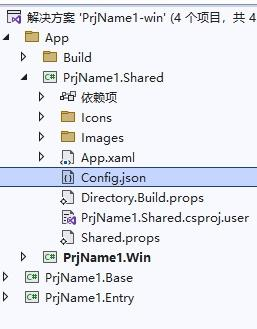
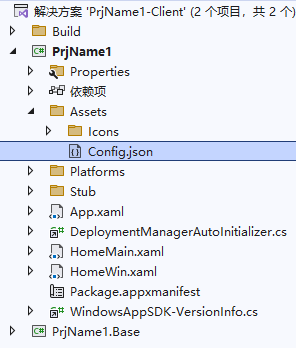
创建项目

diff --git a/content/1开始/2创建项目/_index.md b/content/1开始/2创建项目/_index.md
@@ -7,16 +7,19 @@ tags: []
 
 ## 创建空项目
 1. 选择搬运工模板
-![](1.png)
+![](1.png "选择模板")
 
 1. 使用默认选项创建应用
-![](2.png)
+![](2.png "默认选项")
 
 1. 单击创建按钮
 
+1. 同时创建两个解决方案，XXX-Svc.sln 和 XXX-Client.sln
+![](2a.png "两个解决方案")
+
 1. 等待创建项目并还原其依赖项，因初次需要下载依赖包，网速慢的请多等会:skull:
 
-1. 编辑器顶部的横幅可能会要求重新加载项目，单击“重新加载项目”：
+1. 编辑器顶部的横幅可能会要求重新加载项目，单击“重新加载项目” 或 关闭解决方案重新打开
 ![](3.png)
 
 **至此项目创建成功！**
@@ -26,17 +29,40 @@ tags: []
 
 ![](3a.png)
 
-* PrjName1.sln 所有客户端项目，4个目标框架
-* PrjName1-svc.sln 只服务
-* PrjName1-win.sln 只net-windows框架
-* PrjName1-android.sln 只net-android框架
-* PrjName1-ios.sln 只net-ios框架
-* PrjName1-skia.sln 只net框架，gtk和wpf项目
-* PrjName1-wasm.sln 只net框架，wasm项目
+1. **子目录**
+* PrjName1-Svc   服务项目
+* PrjName1       客户端app项目
+* PrjName1.Base  客户端基础项目，包括实体、领域服务、数据访问类、接口、公共UI控件等
 
-{{< admonition >}}
-为提高效率，开发时使用 PrjName1-win.sln ，适配不同平台时再打开对应 sln
-{{< /admonition >}}
+2. **文件**
+* PrjName1-Svc.sln     服务端解决方案
+* PrjName1-Client.sln  客户端解决方案
+* Directory.Build.props  客户端msbuild导入的设置，多级合并方式
+* global.json            客户端项目Dt.Sdk版本
+* filenesting.json       VS资源管理器目录树的文件嵌套控制
+* Readme.txt             说明
+
+
+## 生成项目
+打开服务端解决方案 `PrjName1-Svc.sln`，等待项目还原完毕，选中项目生成即可。
+
+打开解决方案 `PrjName1-Client.sln`，客户端解决方案涉及多平台统一，项目生成时包含对所有目标框架的生成，生成过程比较慢，运行前设置 `PrjName1` 项目为启动项目，
+选择启动框架
+![](b4.png "启动框架")
+`net9.0-browserwasm`框架比较特殊，选择后所有项目Sdk会切换到`Microsoft.NET.Sdk.Web`的效果，这种情况建议使用单一目标框架。
+
+
+为提高生成效率，开发时可以设置单一目标框架，适配不同平台时再添加其他目标框架。
+
+目标框架在 `Directory.Build.props` 中定义
+![](b1.png "目标框架")
+
+可以手动修改，搬运工扩展提供了更方便的操作，右键解决方案 -> 设置框架
+![](b2.png)
+
+![](b3.png)
+
+选择目标框架，点击确定，VS将重新加载整个解决方案。
 
 
 ## 初始化数据库
@@ -50,7 +76,7 @@ tags: []
 通过客户端初始化数据库没有连接服务，是纯粹的两层结构，直连数据库
 {{< /admonition >}}
 
-1. VS打开解决方案PrjName1-win.sln，将PrjName1.Win 项目设为启动项目，ctrl + F5 启动应用，因为未启动服务，所以客户端启动后会提示服务器连接失败。
+1. VS打开解决方案`PrjName1-Client.sln`，设置单一目标框架Windows，将`PrjName1`项目设为启动项目，选择启动框架`PrjName1 (WinAppSDK)`，`ctrl + F5` 启动应用，因为未启动服务，所以客户端启动后会提示服务器连接失败。
 
 　　![](a1.png)
 
@@ -93,7 +119,7 @@ tags: []
 通过服务初始化只支持导入平台默认初始表结构及数据，无法导入外部sql脚本文件
 {{< /admonition >}}
 
-1. VS打开解决方案PrjName1-svc.sln，打开 etc/config/service.json 文件，将顶部的Mode节设置为InitDb，初始化数据库模式：
+1. VS打开解决方案PrjName1-Svc.sln，打开 etc/config/service.json 文件，将顶部的Mode节设置为InitDb，初始化数据库模式：
 
 ![](a10.png)
 
@@ -177,65 +203,55 @@ tags: []
 
 {{< admonition>}}
 搬运工客户端支持三种运行模式：单机、两层直连数据库、多层微服务
-* 单机版独立运行，无服务，可使用Sqlite本地库
-* 直连数据库，两层架构，无服务，不支持WebAssembly
 * 多层微服务，使用自定义服务和搬运工标准服务(内核服务、消息服务、文件服务)
+* 直连数据库，两层架构，无服务，不支持WebAssembly
+* 单机版独立运行，无服务，可使用Sqlite本地库
 {{< /admonition >}}
 
-三种运行模式可在Shared项目的Config.json中配置
+三种运行模式可在`Config.json`中配置
 
 ![](a17.png)
 
+默认多层微服务模式
+
 {{< highlight json >}}
 {
-  "Title": "搬运工",
+  // cm服务地址，将localhost换成android ios虚拟机能够访问的IP
+  "Server": "https://localhost:1234",
 
-  // cm服务地址 或 直连数据库的键名
-  "Server": "https://10.10.1.16:1234",
-  //"Server": "pgdt",
+  // Wasm服务地址，因浏览器内访问https时证书无效不访问，证书已安装可以和Server相同
+  "WasmServer": "http://localhost:9999"
+}
+{{< /highlight >}}
+
+直连数据库模式
+{{< highlight json >}}
+{
+  // 直连数据库的键名
+  "Server": "db1",
 
   // 可直连数据库列表
   "Database": {
-    "mydt": {
-      "ConnStr": "Server=10.10.1.2;Port=3306;Database=dt;Uid=dt;Pwd=dt;",
-      "DbType": "mysql"
-    },
-    "orcldt": {
-      "ConnStr": "User Id=dt;Password=dt;Data Source=(DESCRIPTION=(ADDRESS=(PROTOCOL=TCP)(HOST=10.10.1.2)(PORT=1521))(CONNECT_DATA=(SERVICE_NAME=sec)(SERVER=dedicated)))",
-      "DbType": "oracle"
-    },
-    "sqldt": {
-      "ConnStr": "Data Source=10.10.1.2,1433;Initial Catalog=dt;User ID=dt;Password=dt;Encrypt=True;TrustServerCertificate=True;",
-      "DbType": "sqlserver"
-    },
-    "pgdt": {
+    "db1": {
       "ConnStr": "Host=10.10.1.2;Port=5432;Database=dt;Username=dt;Password=dt;",
       "DbType": "postgresql"
+    },
+    "dt2": {
+      "ConnStr": "Server=10.10.1.2;Port=3306;Database=dt;Uid=dt;Pwd=dt;",
+      "DbType": "mysql"
     }
   }
 }
 {{< /highlight >}}
 
-单机模式只需要指定Title，并且AppStub继承DefaultStub
+单机模式只需要指定sqlite数据库名
 
 {{< highlight json >}}
 {
-  "Title": "搬运工",
+  "Server": "sqlite/local"
 }
 {{< /highlight >}}
 
-![](a18.png)
-
-默认将配置成多层微服务模式
-
-{{< highlight json "hl_lines=5" >}}
-{
-  "Title": "搬运工",
-
-  // cm服务地址
-  "Server": "https://10.10.1.16:1234"
-}
-{{< /highlight >}}
 
 ## 启动服务
 
@@ -244,66 +260,66 @@ tags: []
 {{< /admonition >}}
 
 1. VS打开解决方案PrjName1-svc.sln，修改etc/config/目录下的 global.json 和 service.json 文件，主要修改数据库连接串
-![](a19.png)
+![](a19.png "json配置")
 
 1. 确保生成成功，开始执行(ctrl + F5)，成功后会打开浏览器显示API目录页面，点击日志可查看启动过程：
-![](a20.png)
+![](a20.png "查看启动过程")
 
 1. 初次运行服务提示缺少Sqlite文件 model_* ... ，运行cm服务的API UpdateAllSqliteFile
-![](a21.png)
-![](a22.png)
+![](a21.png "API")
+![](a22.png "UpdateAllSqliteFile")
 点击测试方法，将生成所有sqlite文件，日志输出：
-![](a23.png)
+![](a23.png "生成所有sqlite文件")
 
 1. 始终保持服务运行状态，以便客户端App运行时连接 或 VS开发使用搬运工扩展添加框架代码时连接
 
-1. 在客户端App运行之前，参见上一节配置客户端，需要设置服务地址，将Config.json中的Server修改为本机IP
-![](a24.png)
+1. 在客户端App运行之前，参见上一节配置客户端，需要设置服务地址，将Config.json中的 `localhost` 修改为本机IP
+{{< highlight json "hl_lines=3 6" >}}
+{
+  // cm服务地址，将localhost换成android ios虚拟机能够访问的IP
+  "Server": "https://localhost:1234",
+
+  // Wasm服务地址，因浏览器内访问https时证书无效不访问，证书已安装可以和Server相同
+  "WasmServer": "http://localhost:9999"
+}
+{{< /highlight >}}
+
 
 ## 运行 App
+1. VS打开解决方案 `PrjName1-Client.sln`，将`PrjName1`项目设置为启动项目
 
-### 运行 Windows App
-1. VS打开解决方案PrjName1-win.sln，将PrjName1.Win项目设置为启动项目，F5启动调试，初次运行会显示用户协议和隐私政策对话框
+1. 设置目标框架，为提高生成效率，开发时可以设置单一目标框架，适配不同平台时再添加其他目标框架。
+目标框架在 `Directory.Build.props` 中定义
+![](b1.png "目标框架")
+可以手动修改，搬运工扩展提供了更方便的操作，右键解决方案 -> 设置框架
+![](b2.png "设置框架")
+![](b3.png "目标框架")
+选择目标框架，点击确定，VS将重新加载整个解决方案。
 
-　　![](a25.png)
+1. 选择启动框架
+![](b4.png "启动框架")
 
-2. 点击同意后进入登录页面，输入预留手机号13511111111，默认密码1111，然后点击登 录，登录成功后进入主页，若失败可双击标题查看系统日志
-　　![](a26.png)
+1. F5启动调试，初次运行会显示用户协议和隐私政策对话框
+![](a25.png)
 
-3. 登录成功后显示主页
+1. 点击同意后进入登录页面，输入预留手机号13511111111，默认密码1111，然后点击登 录，登录成功后进入主页，若失败可双击标题查看系统日志
+![](a26.png)
 
+1. 登录成功后显示主页
 ![](a27.png "主页")
 
-### 运行 Android App
-1. 打开PrjName1-android.sln，将PrjName1.Droid项目设置为启动项目，初次运行需要添加Android设备，打开 Android -> Android设备管理器 添加设备，创建虚拟机时采用以下镜像不需要另外下载
+1. Android平台效果：初次运行需要添加Android设备，打开 Android -> Android设备管理器 添加设备，创建虚拟机时采用以下镜像不需要另外下载
 ![](13.png "创建虚拟机")
-
-1. F5启动调试，和Windows App相同，初次运行会显示用户协议和隐私政策对话框，登录成功后进入主页
+F5启动调试，和Windows App相同，初次运行会显示用户协议和隐私政策对话框，登录成功后进入主页
 ![](a28.png)
 
-### 运行 iOS App
-1. 运行 iOS App首先要有台mac设备，mac上环境的安装也得大半天，详细过程参见[与 Mac 配对进行 iOS 开发](https://learn.microsoft.com/zh-cn/dotnet/maui/ios/pair-to-mac?view=net-maui-7.0)
+1. iOS平台：运行 iOS App首先要有台mac设备，mac上环境的安装也得大半天，详细过程参见[与 Mac 配对进行 iOS 开发](https://learn.microsoft.com/zh-cn/dotnet/maui/ios/pair-to-mac?view=net-maui-7.0)。启动调试，在mac中的模拟器上运行，效果和以上Android App相同。
 
-1. 目前在`VS17.4.3`上仍然无法在windows上远程显示模拟器，在 `工具 -> 选项` 中设置
-![](25.png)
+1. Desktop平台运行效果除缺少部分动画外其它和Windows App相同，支持PhoneUI模式。
 
-1. 打开PrjName1-ios.sln，将PrjName1.iOS项目设置为启动项目，F5启动调试，在mac中的模拟器上运行，和Android App相同
-
-
-### 运行Skia App
-1. 打开PrjName1-skia.sln，该方案包含两个可启动项目：PrjName1.Gtk、PrjName1.Wpf，PrjName1.Gtk可运行在linux windows上，PrjName1.Wpf可运行在win10以前的老版本windows上，若在windows上运行gtk应用，请参照 [Using the Skia+GTK head](https://platform.uno/docs/articles/features/using-skia-gtk.html?tabs=windows%2Cubuntu1804) 安装运行时。
-
-1. 两个app运行效果除缺少部分动画外其它和Windows App相同
-
-
-### 运行 Web App
-1. 打开PrjName1-wasm.sln，将PrjName1.Wasm项目设置为启动项目
-
-1. 初次生成Wasm项目前还需要很多准备工作，包括安装Python、下载并安装 Emscripten sdk (2G多)、下载.net针对Wasm的运行时，除安装Python外，其余两项可在初次生成Wasm项目前自动下载并安装，但因网络不稳定，并且自动安装失败不报错误，造成无法编译时让人摸不着头脑，希望道友们耐心坚持
-
-1. 若生成成功，您太幸运了 ！贫道流下羡慕的泪水，摸索到这一步经历太多的辛酸，如 [编译时间26分钟](https://github.com/unoplatform/Uno.Wasm.Bootstrap/issues/326)
-
-1. F5启动调试，和Windows App相同，初次运行会显示用户协议和隐私政策对话框，登录成功后进入主页
+1. WebAssembly平台除了运行慢、缺少部分动画外，其它和Windows App相同，支持PhoneUI模式。
+~~初次生成Wasm项目前还需要很多准备工作，包括安装Python、下载并安装 Emscripten sdk (2G多)、下载.net针对Wasm的运行时，除安装Python外，其余两项可在初次生成Wasm项目前自动下载并安装，但因网络不稳定，并且自动安装失败不报错误，造成无法编译时让人摸不着头脑，希望道友们耐心坚持
+若生成成功，您太幸运了 ！贫道流下羡慕的泪水，摸索到这一步经历太多的辛酸，如 [编译时间26分钟](https://github.com/unoplatform/Uno.Wasm.Bootstrap/issues/326)~~
 
 {{< admonition success >}}
 恭喜您，跨平台空应用创建成功！

diff --git a/content/1开始/1开发环境/_index.md b/content/1开始/1开发环境/_index.md
@@ -12,6 +12,7 @@ tags: []
 * 用于服务和 WebAssembly 开发
 
 ![](1.png)
+![](1a.png)
 
 * 用于 iOS、Android 开发
 
